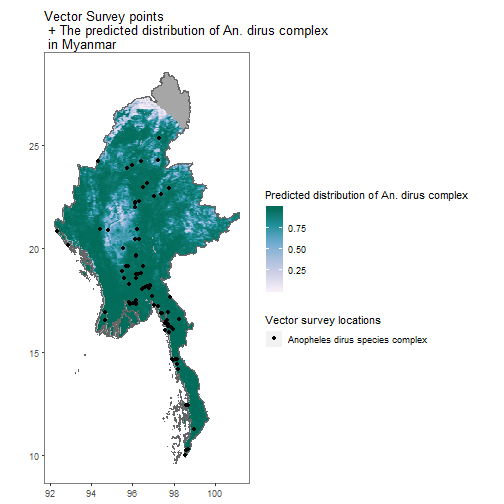
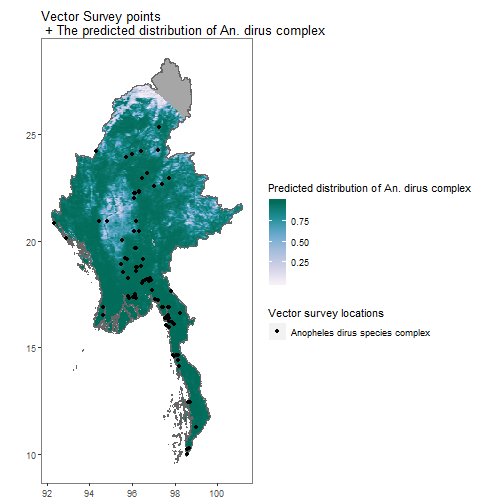
Update in Myanmar example

diff --git a/README.md b/README.md
@@ -363,7 +363,7 @@ p[[1]] +
 geom_point(data = vec, aes(longitude, latitude, colour = species))+
   scale_colour_manual(values = "black", name = "Vector survey locations")+
  scale_fill_distiller(name = "Predicted distribution of An. dirus complex", palette = "PuBuGn", direction = 1)+
- ggtitle("Vector Survey points\n + The predicted distribution of An. dirus complex\n in Myanmar")
+ ggtitle("Vector Survey points\n + The predicted distribution of An. dirus complex")
 ```
 
 ![plot of chunk unnamed-chunk-24](man/figures/unnamed-chunk-24-1.png)
